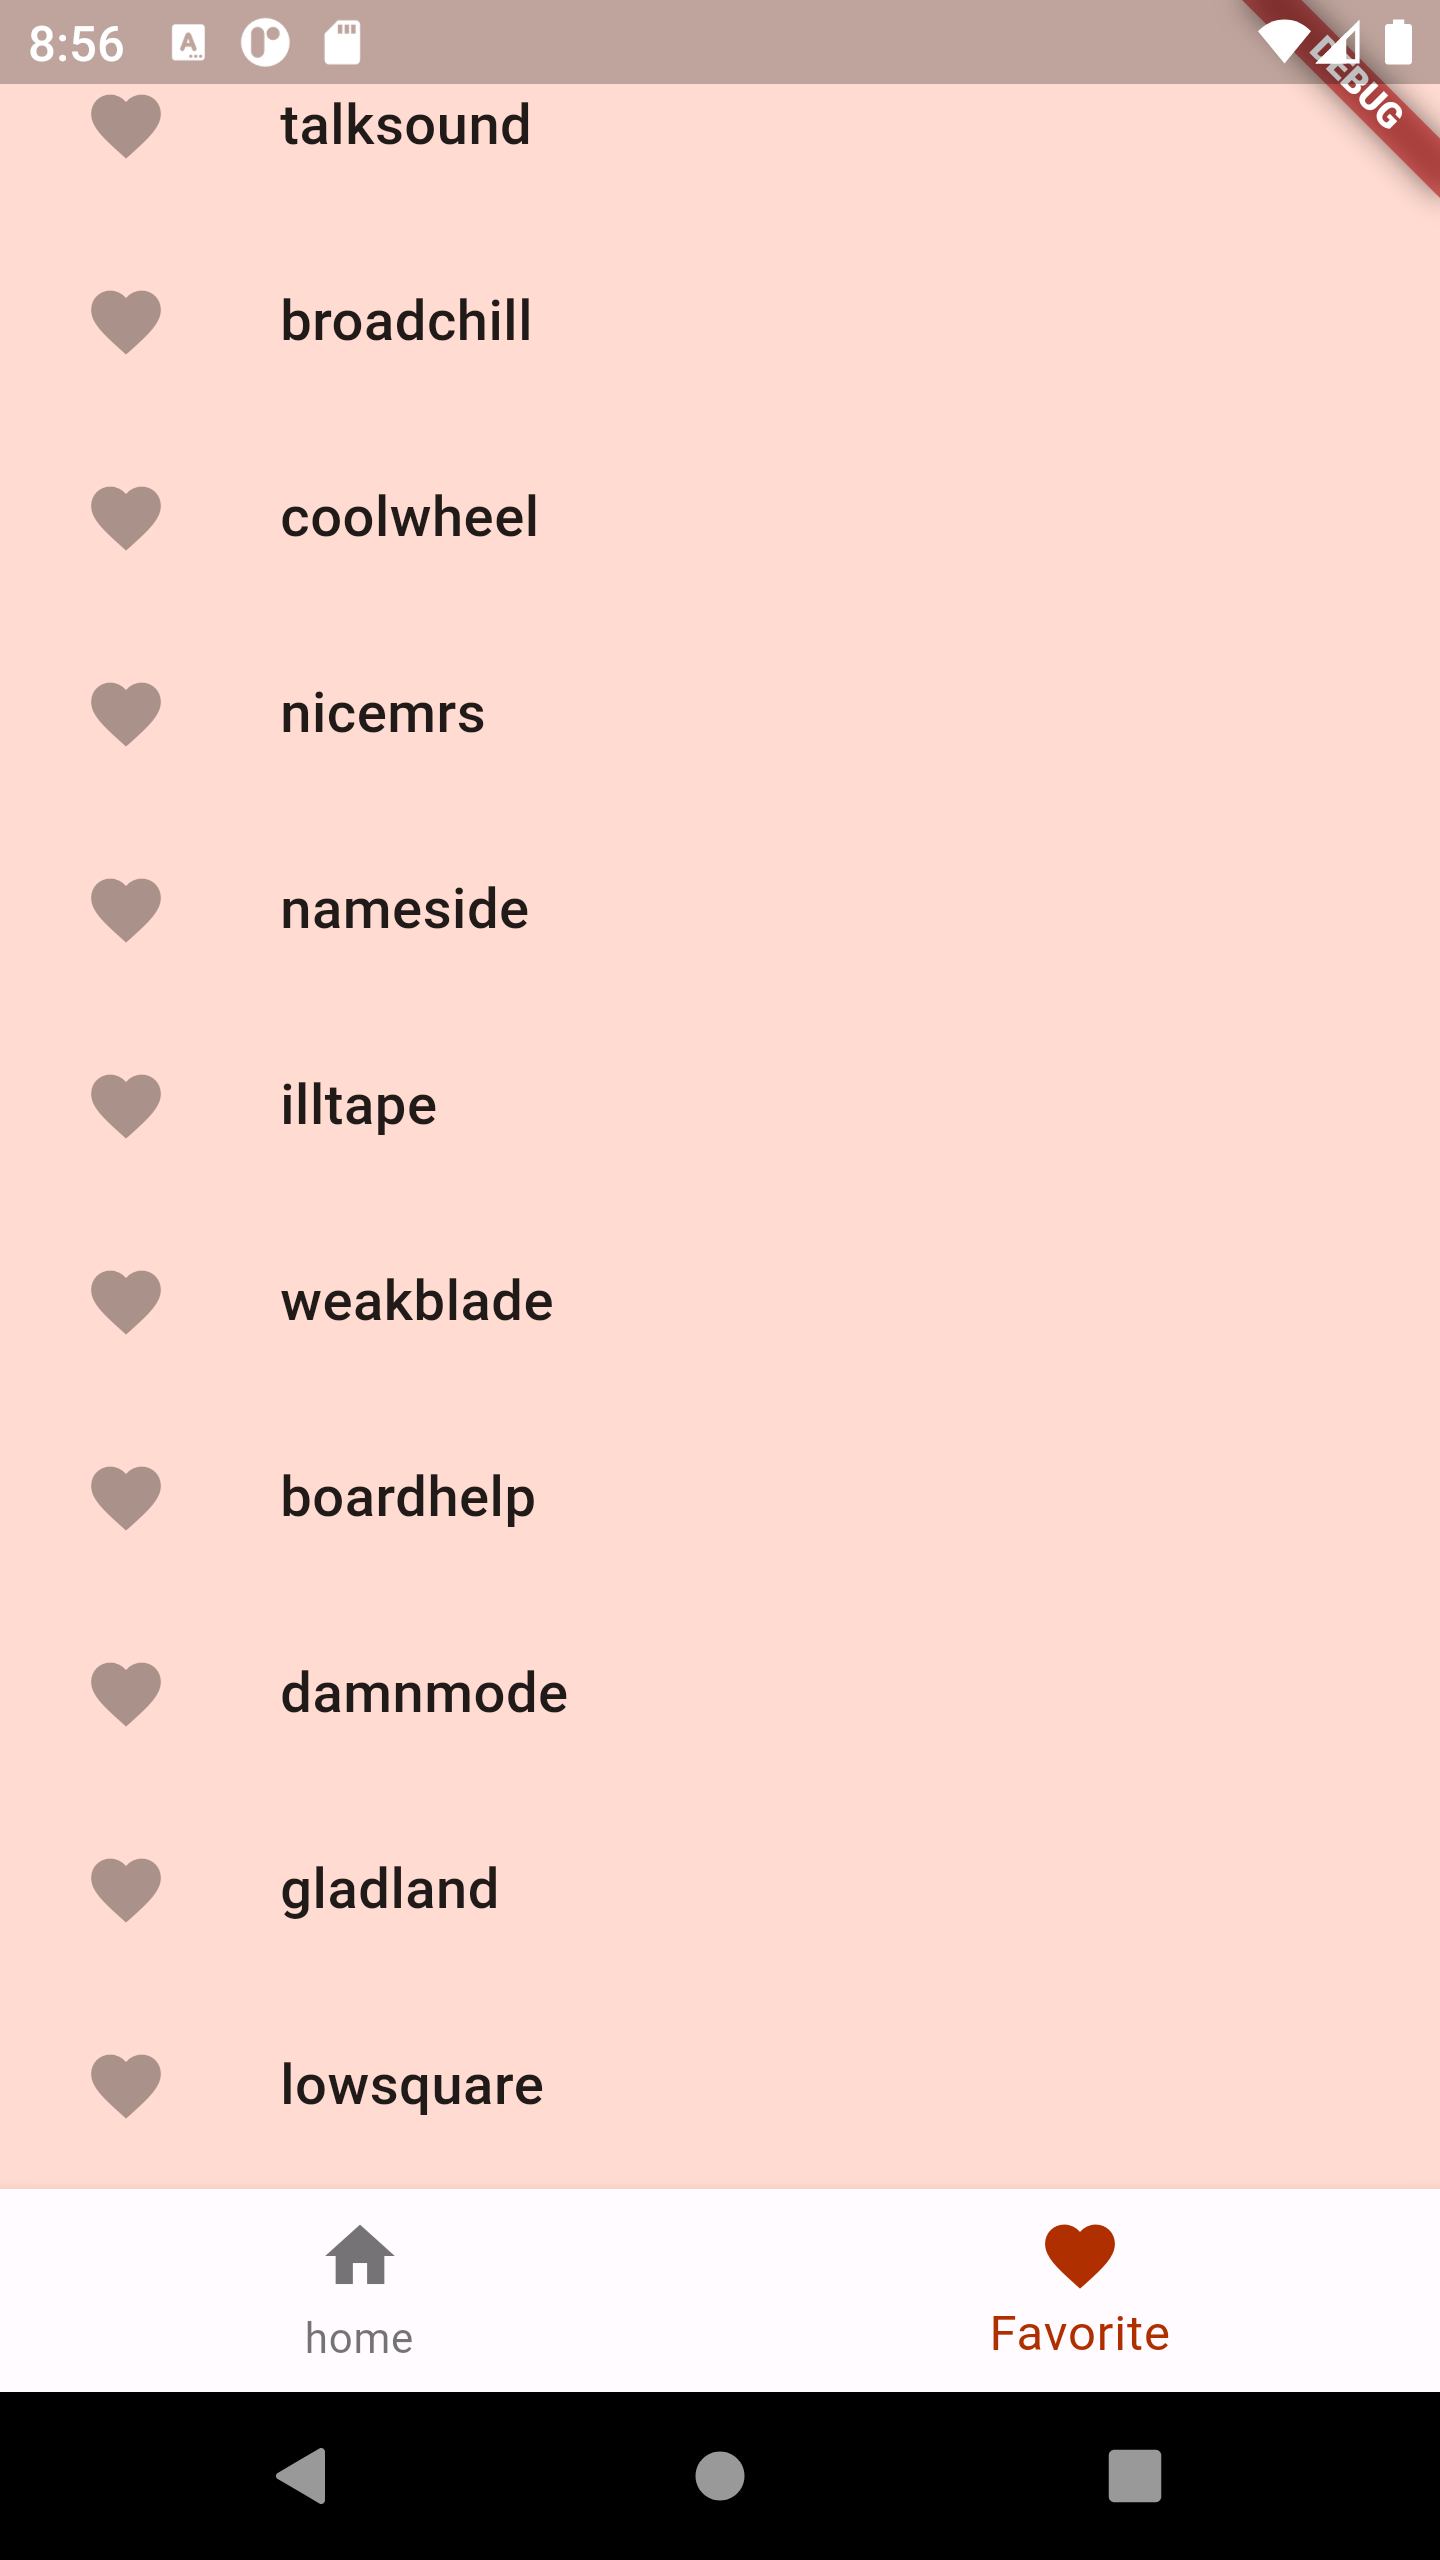
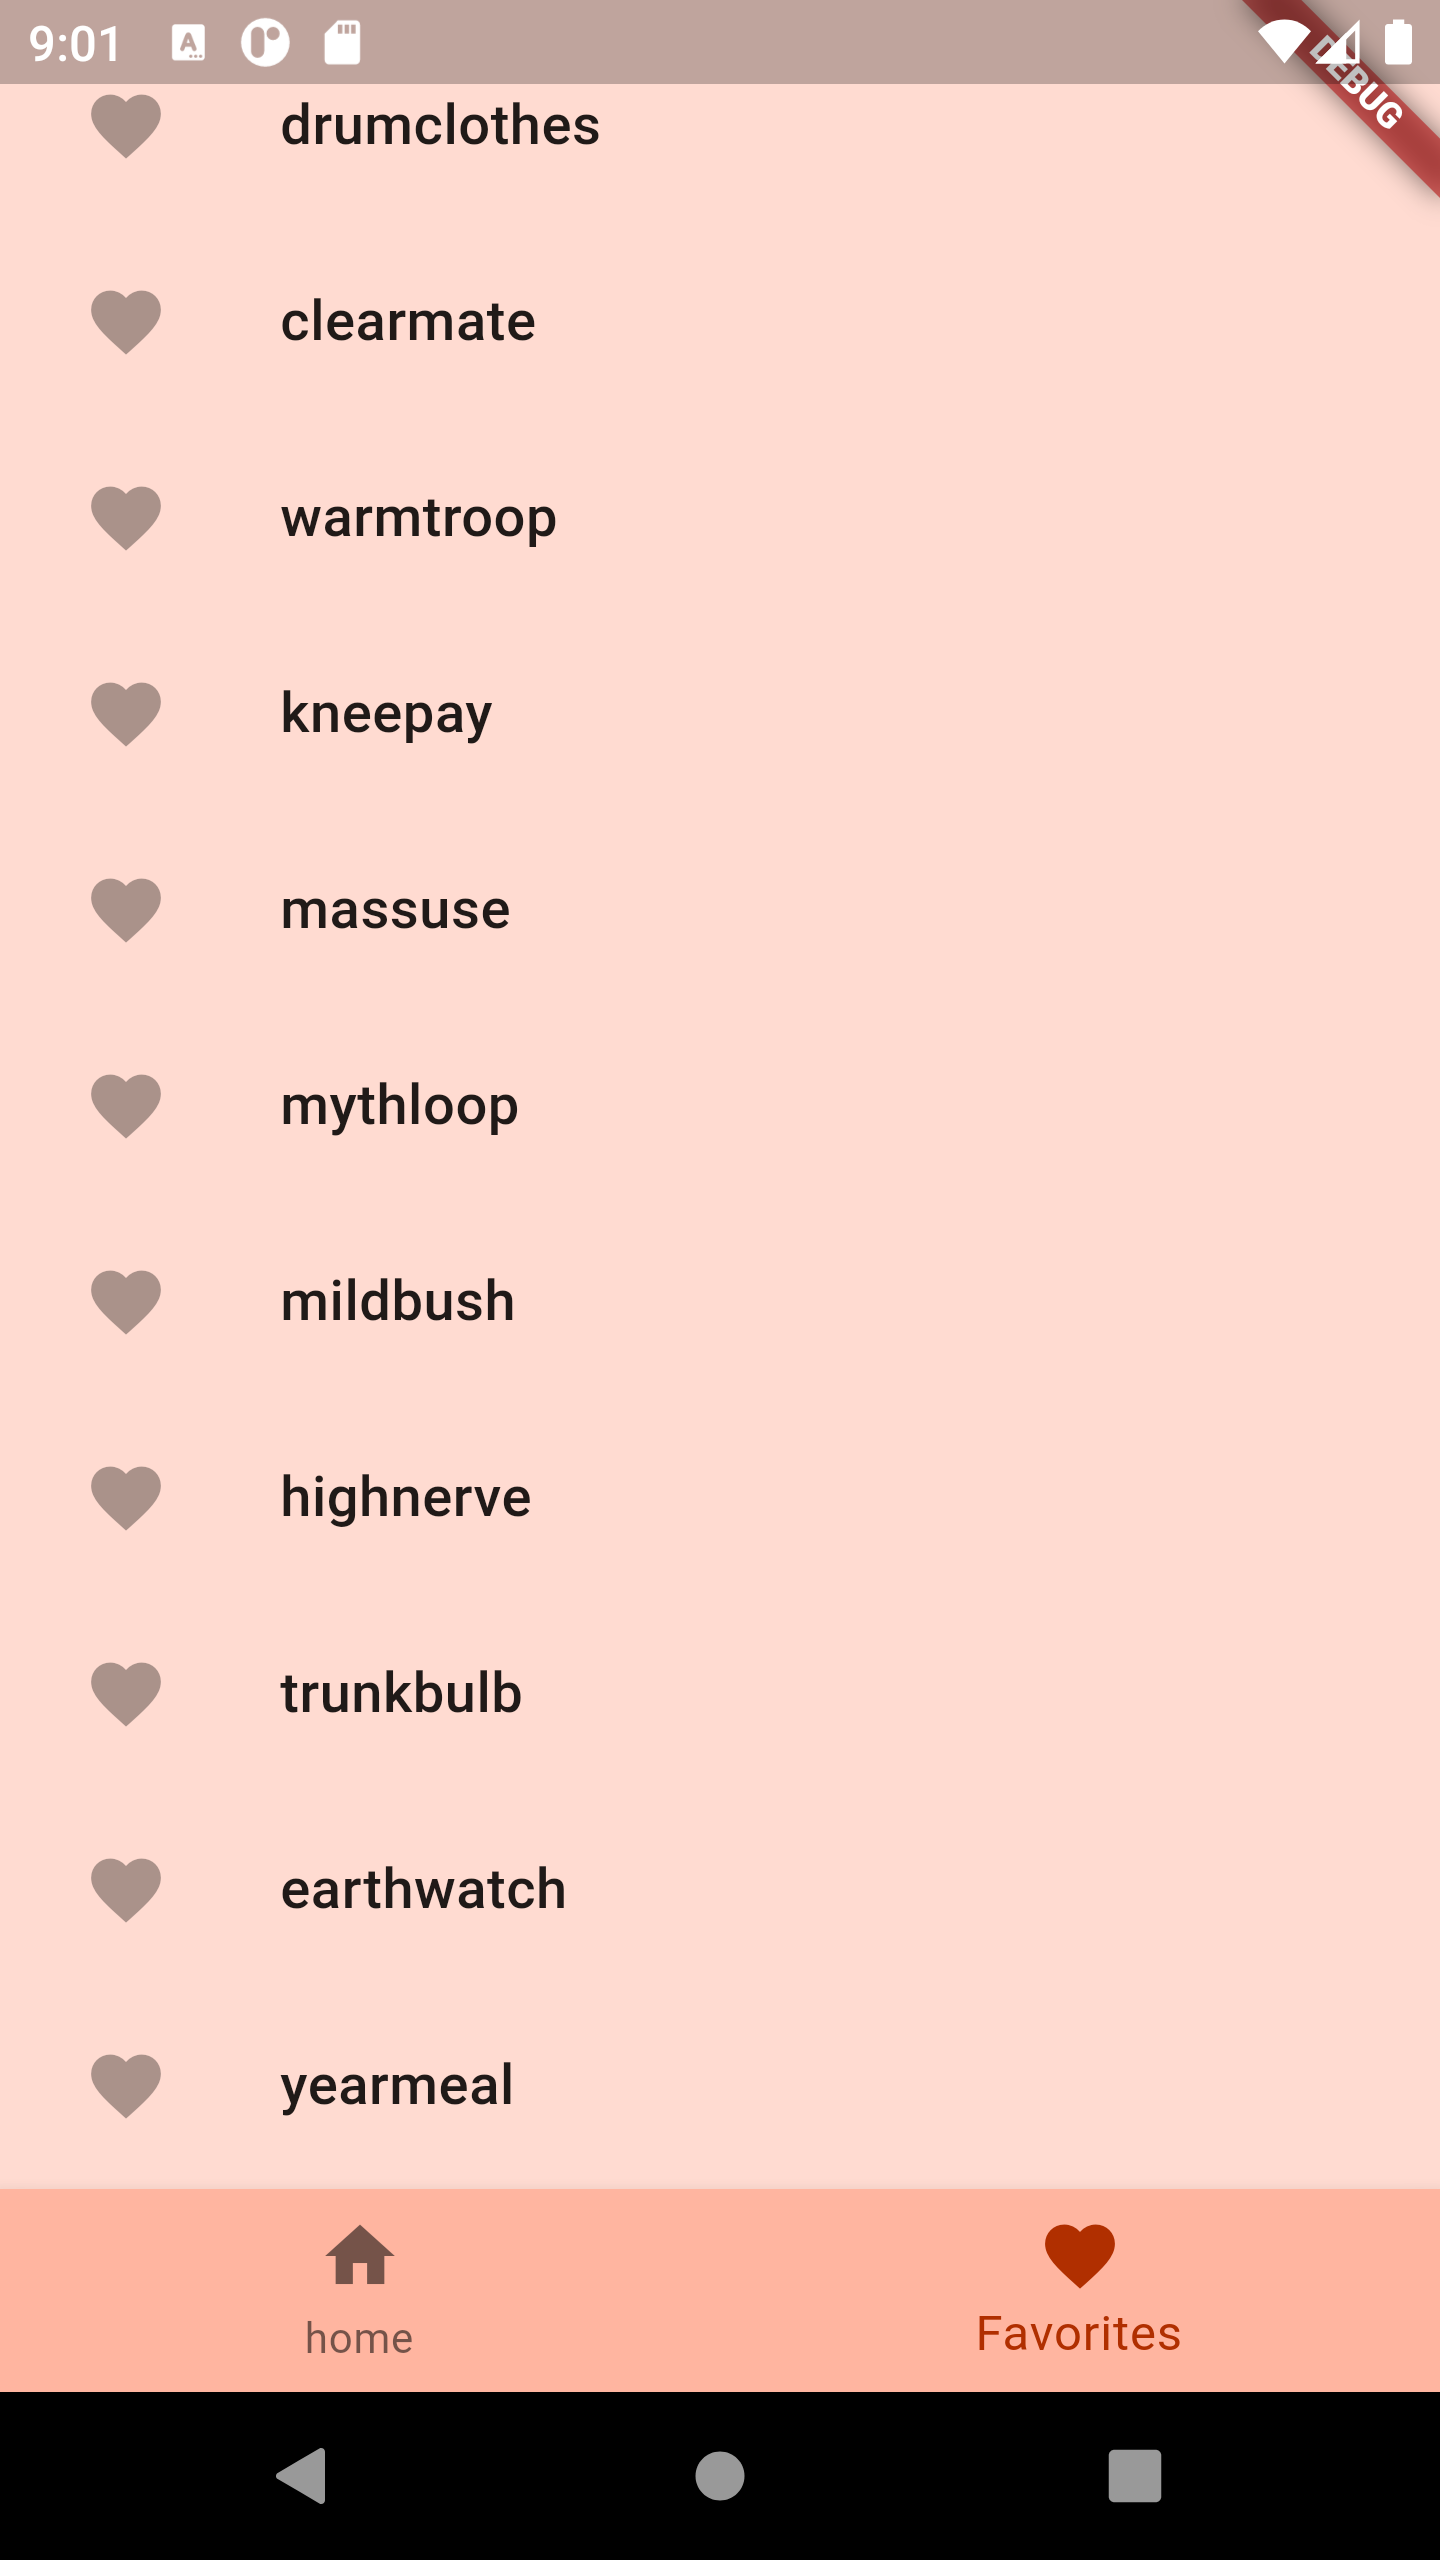
update bottom navbar color

diff --git a/lib/main.dart b/lib/main.dart
@@ -64,6 +64,7 @@ class _MyHomePageState extends State<MyHomePage> {
 
   @override
   Widget build(BuildContext context) {
+    var theme = Theme.of(context);
     Widget page;
 
     switch (selectedIndex) {
@@ -79,6 +80,7 @@ class _MyHomePageState extends State<MyHomePage> {
     return LayoutBuilder(builder: (context, constraints) {
       return Scaffold(
         bottomNavigationBar: BottomNavigationBar(
+          backgroundColor: theme.colorScheme.inversePrimary,
           items: [
             BottomNavigationBarItem(
               icon: Icon(Icons.home),
